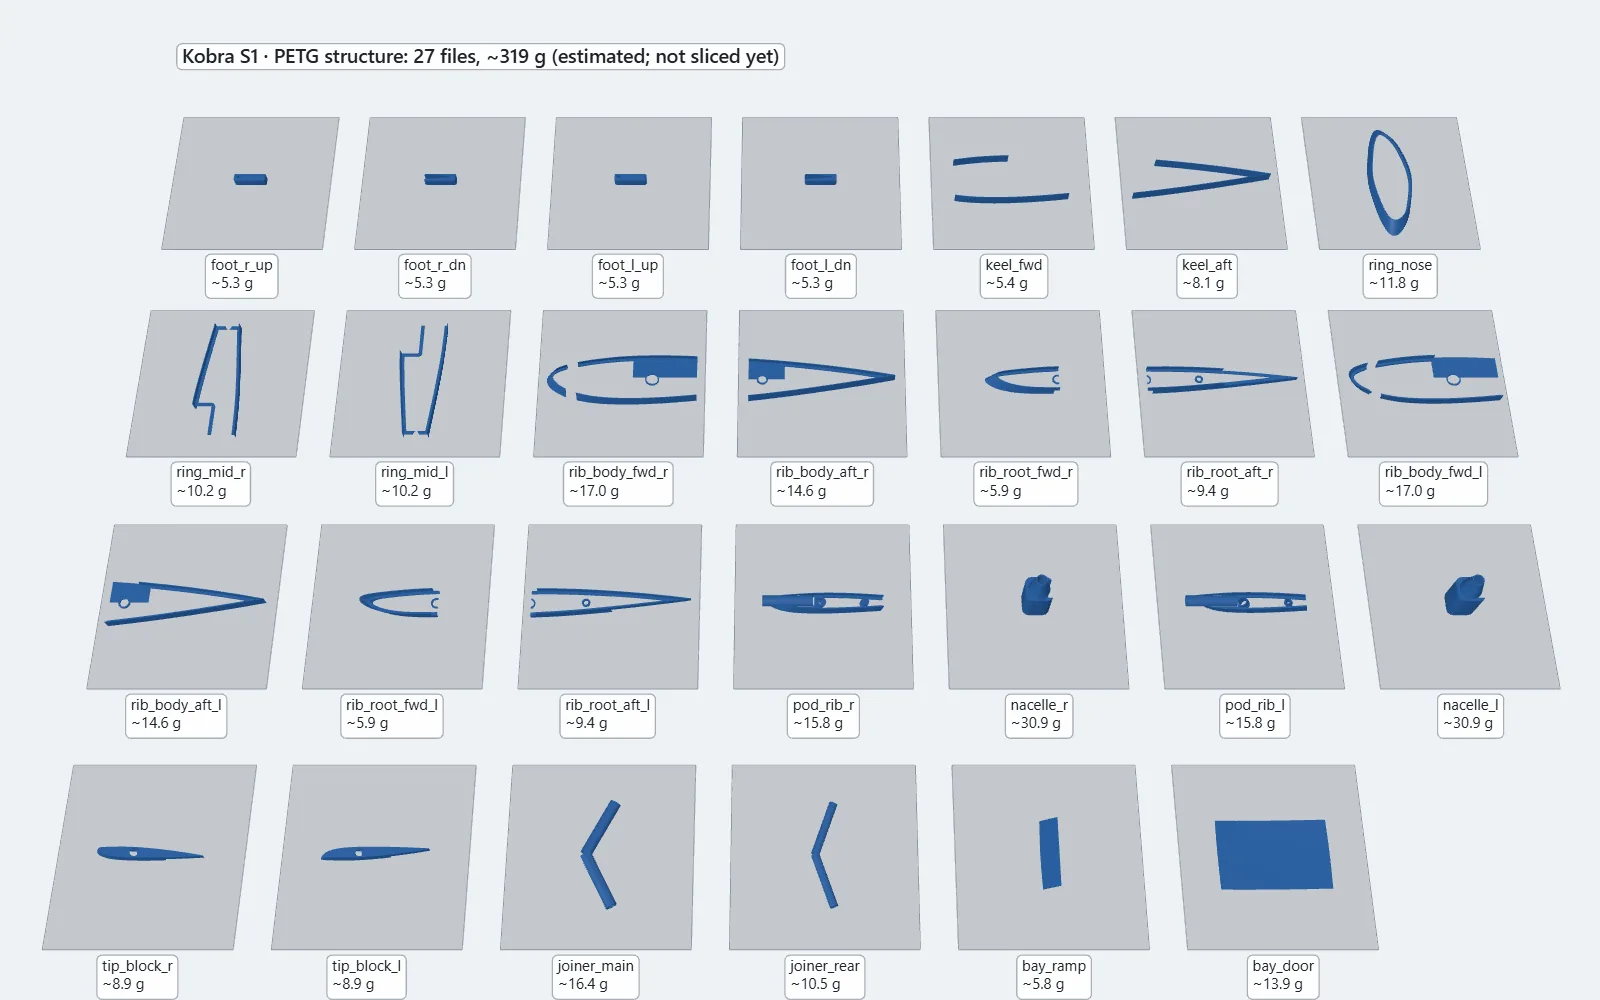
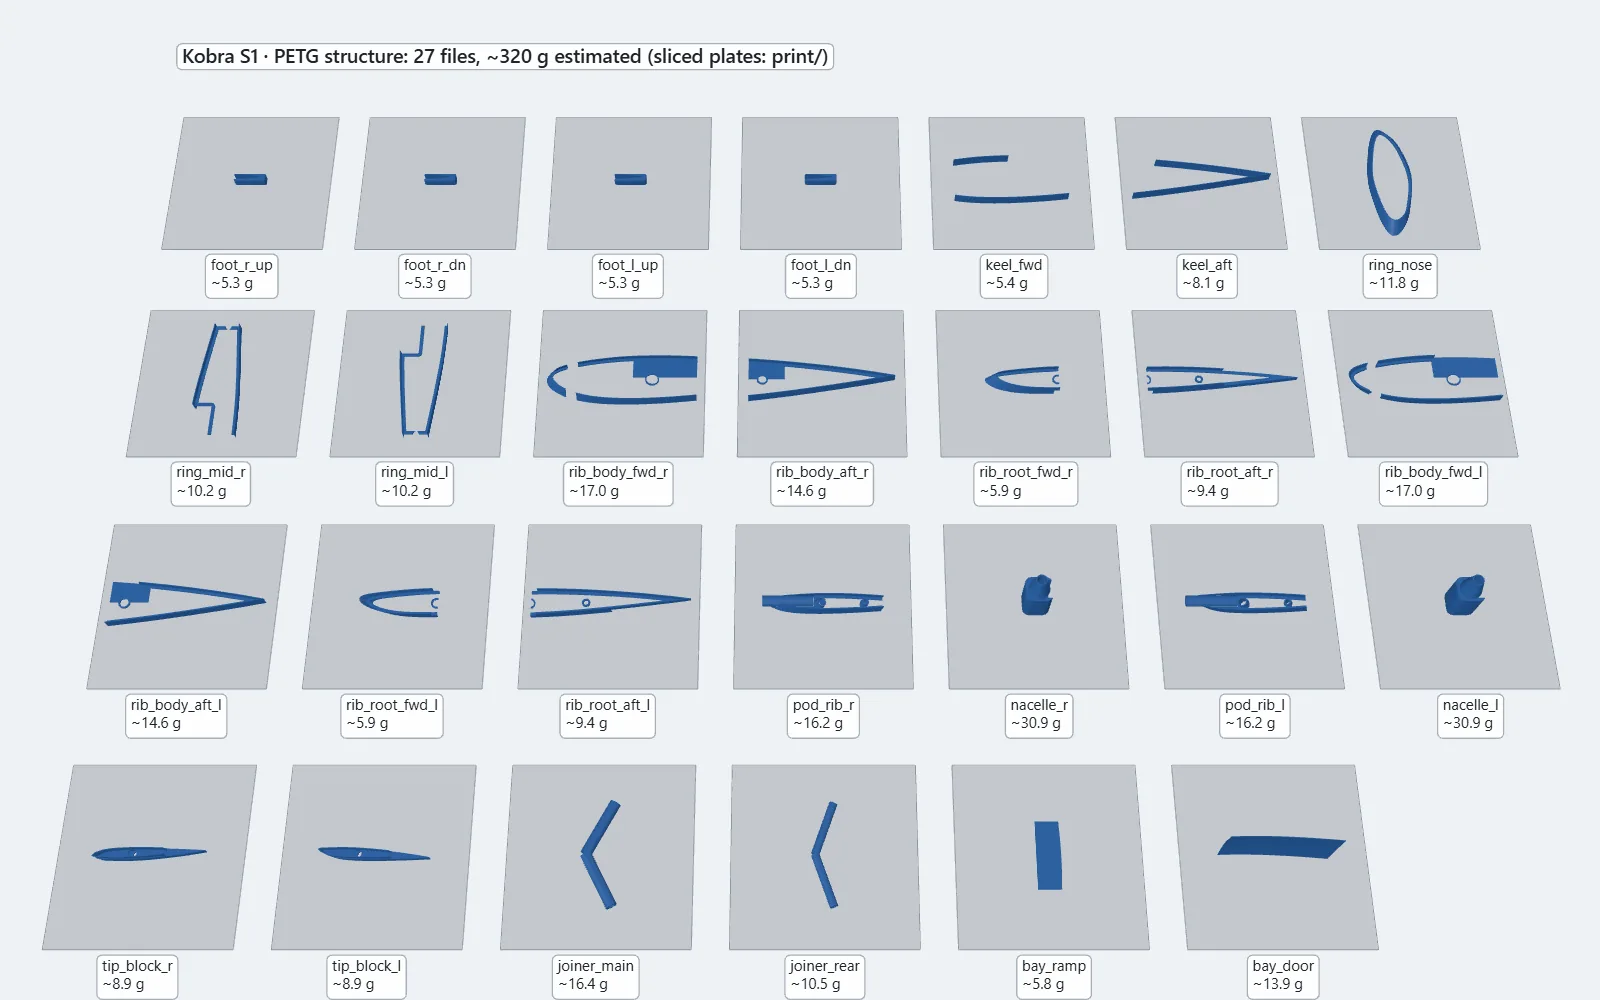
BWB tailsitter: sliced, printing next
Status tag, print and status sections, next steps and the project card now say the tailsitter is
sliced for the Kobra X and S1 (three audited slicer projects) and printing is next. The print
section lists the three projects and what the audit checked, and its picture shows the PETG
parts in their current print poses.

diff --git a/src/app/projects/bwb-vtol/page.tsx b/src/app/projects/bwb-vtol/page.tsx
@@ -7,7 +7,7 @@ import { SectionHeader, StatBox } from "@/components/HUDElements";
 const MEDIA = "/projects/bwb-vtol";
 const PAGE_URL = "https://aj-builds-drone.github.io/projects/bwb-vtol/";
 const SUMMARY =
-  "A 3D-printed blended-wing delivery drone with two props and nothing that tilts. It stands on its tail, climbs like a rocket, pitches over and flies as a flying wing, then hovers to drop a 250 g parcel. Designed in Python, checked by a 23-point gate and a premortem, and flown through a full delivery in PX4 + Gazebo simulation.";
+  "A 3D-printed blended-wing delivery drone with two props and nothing that tilts. It stands on its tail, climbs like a rocket, pitches over and flies as a flying wing, then hovers to drop a 250 g parcel. Designed in Python, checked by a 23-point gate and a premortem, flown through a full delivery in PX4 + Gazebo simulation, and sliced for two printers: printing next.";
 
 export const metadata: Metadata = {
   title: "Blended-Wing Tailsitter: Takes Off Like a Rocket, Flies Like a Plane",
@@ -91,6 +91,7 @@ const PIPELINE = [
   { step: "Propulsion", text: "Blade-element props, DC motors and a Li-ion pack: the thrust the battery can really pay for." },
   { step: "Simulation model", text: "A Gazebo plugin with the same motors, full-envelope wing strips and slipstream, and both PX4 parameter sets, all from the same geometry and masses." },
   { step: "Gate", text: "23 checks run before any filament is used." },
+  { step: "Slicing", text: "Three slicer projects for the two printers. Each part is sliced alone to choose its supports and brim, and every plate is audited down to its G-code." },
 ];
 
 const GATE = [
@@ -107,10 +108,17 @@ const GATE = [
 ];
 
 const NEXT_STEPS = [
-  "Test prints: an LW-PLA wing panel with its PETG pod rib and spigot bands, weighed against the estimate.",
+  "Print, starting with the flow-test skin (LW-PLA 01), then a wing panel with its PETG pod rib and spigot bands, weighed against the estimate.",
   "Thrust-stand a motor with its prop on this pack, and put the measured throttles into the PX4 parameter file.",
   "Weigh every part into measured.json, rebuild, and balance the finished aircraft on the CG it gives. Bond the tubes, then a 3 g sandbag test and a drop test onto the feet.",
   "Build PX4 v1.17 with the patch, load the parameters, test every output with the props off, then a tethered hover.",
+];
+
+const PRINT_JOBS = [
+  ["Kobra X · LW-PLA skins", "15 plates, one vase-mode skin each: 167 g, about 29½ hours"],
+  ["Kobra X · LW-PLA fins", "one plate, both fins with two walls: 55 g, about 11 hours"],
+  ["Kobra S1 · PETG", "6 plates, one per assembly group: 396 g with 88 g of support, about 18½ hours"],
+  ["Audited", "supports only under the 17 parts that need them and none inside a carbon tube's bore, brims clear of the next part, and every plate re-sliced from its project and compared"],
 ];
 
 const HARDWARE = [
@@ -198,7 +206,7 @@ export default function BwbVtolPage() {
                 IN DEVELOPMENT
               </span>
               <span className="font-mono text-[11px] tracking-wider text-text-secondary">
-                v1 · flown in simulation · test prints next
+                v1 · flown in simulation · sliced · printing next
               </span>
             </div>
             <div className="grid grid-cols-2 gap-3">
@@ -430,16 +438,19 @@ export default function BwbVtolPage() {
           <SectionHeader
             code="PRT"
             title="PRINT-READY"
-            subtitle="One material per printer: a Kobra X prints the 17 LW-PLA skins in vase mode and a Kobra S1 the 27 PETG parts. Every part fits its bed and no skin overhangs more than 32°."
+            subtitle="Sliced: three slicer projects, one plate per print, each named for its filament. A Kobra X prints the 17 LW-PLA skins and a Kobra S1 the 27 PETG parts. Every part fits its bed and no skin overhangs more than 32°."
           />
-          <Figure caption="The PETG parts in their print orientation.">
+          <Figure caption="The 27 PETG parts in the orientation they print in.">
             <Image src={`${MEDIA}/print_petg.webp`} alt="The PETG parts laid out in their print orientation" width={1600} height={1000} className="block w-full h-auto" />
           </Figure>
+          <div className="mt-6 max-w-3xl">
+            <Bullets items={PRINT_JOBS} />
+          </div>
         </section>
 
         {/* Status */}
         <section className="mb-16">
-          <SectionHeader code="NXT" title="STATUS + NEXT STEPS" subtitle="Designed, put through a premortem and flown in simulation. Not built yet." />
+          <SectionHeader code="NXT" title="STATUS + NEXT STEPS" subtitle="Designed, put through a premortem, flown in simulation and sliced. Printing next." />
           <div className="grid grid-cols-1 lg:grid-cols-2 gap-6">
             <ol className="space-y-3">
               {NEXT_STEPS.map((s, i) => (
